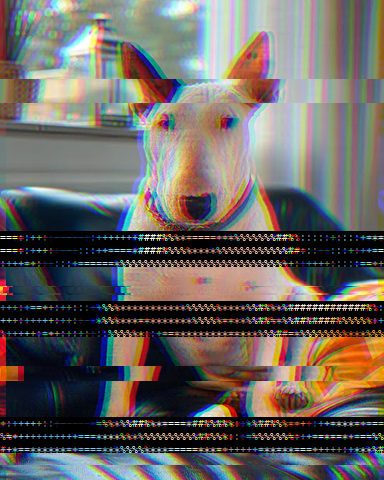
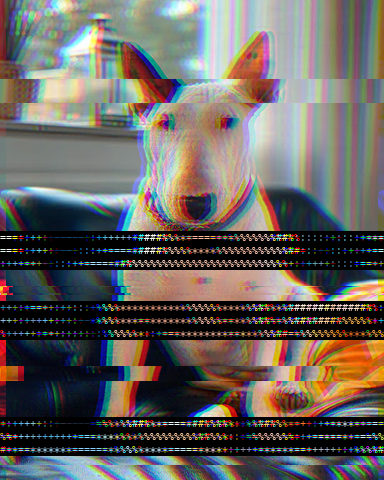
docs: regenerate after the cleanup and re-render the glitch picture
glitch sizes its text strips by the font's real cell now, so its example picture changed.

Changed region(s): [[0.0, 0.9062, 1.0, 0.9688], [0.0, 0.6875, 1.0, 0.7188], [0.0, 0.5312, 1.0, 0.5625]]

diff --git a/docs/effects/glitch.md b/docs/effects/glitch.md
@@ -34,7 +34,7 @@ Digital-error looks: displaced slices, colour splits and corrupted blocks.
 | `seed` | whole number | count | 0 to 4294967295 | `0` | Random seed: the same seed always gives the same damage; any other gives different strips. |
 | `band_min_height` | number | fraction | 0 to 1 | `0.01` | The lowest a strip can be, as a fraction 0 to 1 of the picture's height (never below 1 px). Each strip's height is drawn at random between this and `band_max_height`, which it may not exceed. |
 | `band_max_height` | number | fraction | 0 to 1 | `0.06` | The tallest a strip can be, as a fraction 0 to 1 of the picture's height. Raising it gives taller strips. |
-| `ascii_rows` | whole number | count | 1 to 100 | `3` | The fewest rows of characters a text strip holds, 1 to 100: a thinner strip is widened (each row counted as twice `ascii_cell` tall) so its text stays legible, up to the whole picture. |
+| `ascii_rows` | whole number | count | 1 to 100 | `3` | The fewest rows of characters a text strip holds, 1 to 100: a thinner strip is widened (each row counted as tall as the font's character cell, see `ascii_font`) so its text stays legible, up to the whole picture. |
 | `ascii_gamma` | number | ratio | 0.1 to 10 | `0.55` | Exponent on the amount of ink each character puts down, 0.1 to 10: below 1 (the default) more ink, so the text carries enough light to read against dark paper; above 1 less. |
 | `ascii_chars` | text |  |  | `' .:-=+*#%@'` | The character palette of the text strips, in any order, at least two different characters; sorted by how much ink each glyph puts down, so the densest is used for the brightest areas on dark paper and the darkest on light paper (see `ascii_paper`). |
 | `ascii_ink` | colour or none |  |  | `None` | The ink colour of the text strips ('#rrggbb', '#rgb' or [r, g, b] 0..1); none (the default) colours each character from the average colour of the strip under it, brightened as in the ascii effect (strongest channel scaled to full, by at most 1 / `ascii_ink_floor`). |
